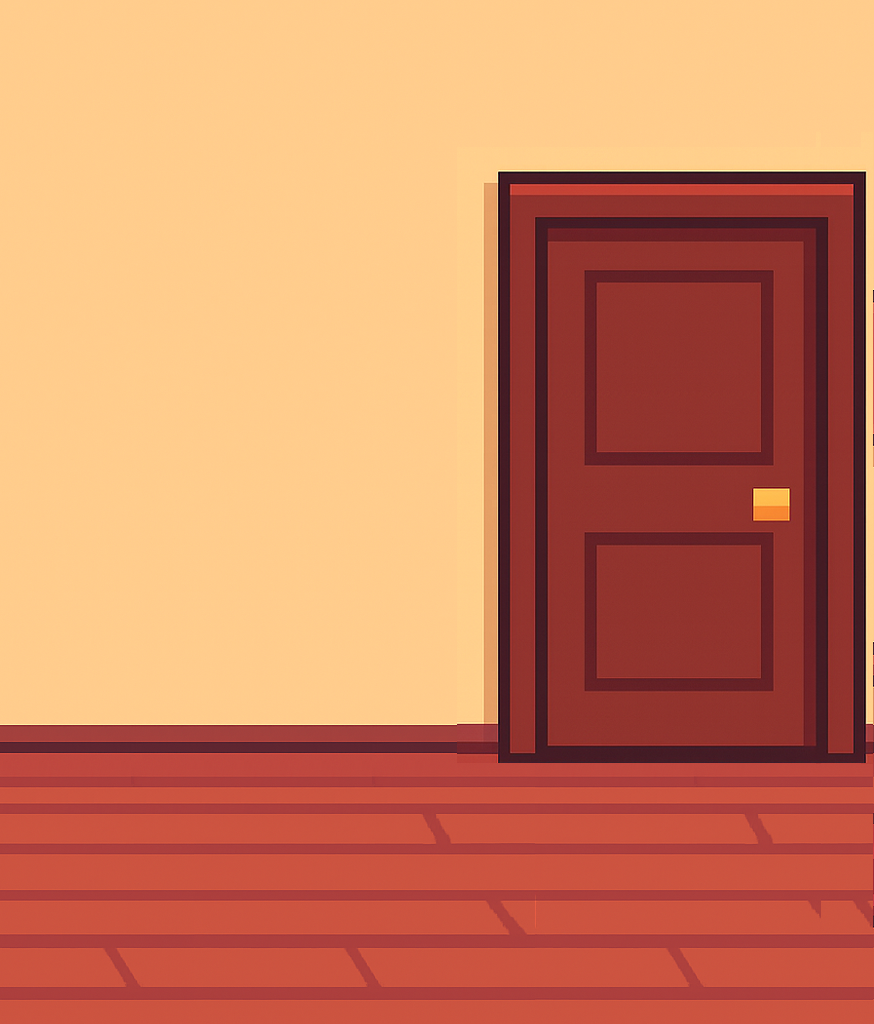
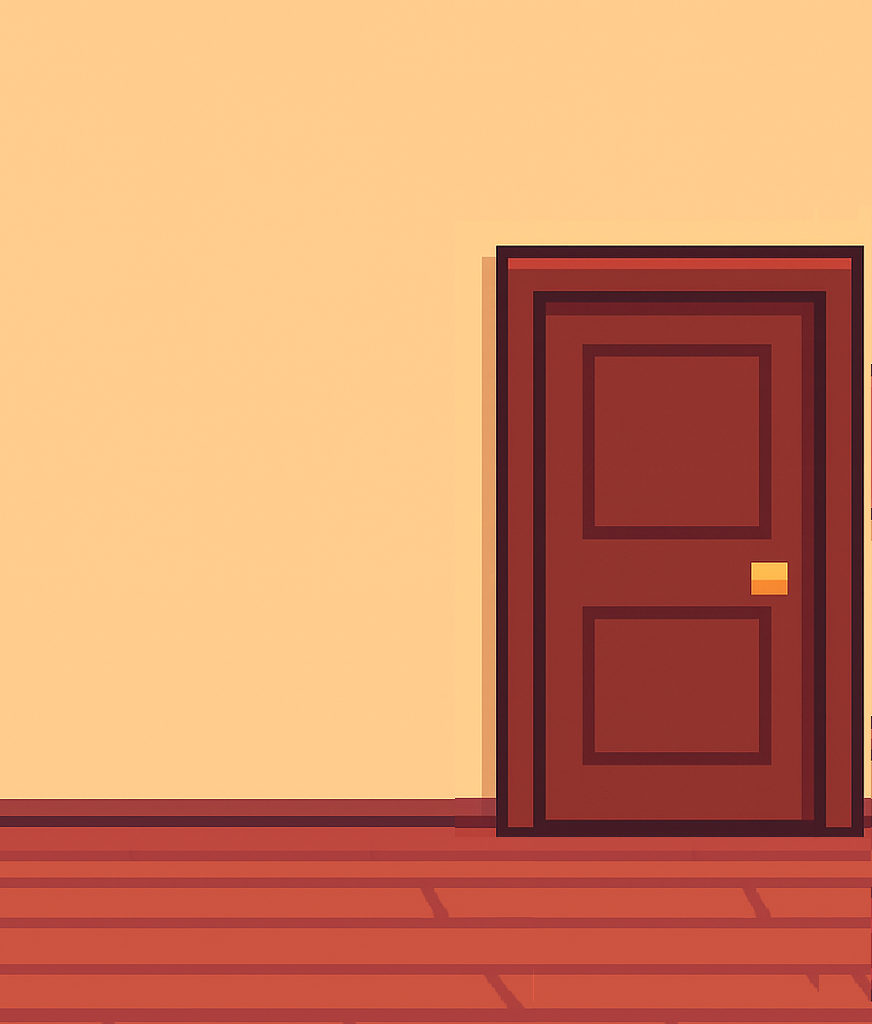
Ajustando escala do personagem

diff --git a/src/core/GameScene.js b/src/core/GameScene.js
@@ -55,18 +55,18 @@ export default class GameScene extends Phaser.Scene {
     this.homeBg1 = this.add
       .image(width / 2, height / 2, "home_bg")
       .setDepth(-2)
-      .setScale(0.5);
+      .setScale(0.48);
 
     this.homeBg2 = this.add
       .image(width / 2 + 600, height / 2, "home_bg_2")
       .setDepth(-2)
-      .setScale(0.5);
+      .setScale(0.48);
 
     // PC
     new InteractiveObject(this, {
       key: 'pc',
-      x: width - 260,
-      y: height - 190,
+      x: width - 305,
+      y: height - 100,
       texture: 'pc',
       label: "Computador",
       dialogs: [
@@ -87,7 +87,7 @@ export default class GameScene extends Phaser.Scene {
     this.physics.add.collider(this.pc, this.ground.ground);
 
     // Player
-    this.player = setupPlayer(this, 60, height - 300);
+    this.player = setupPlayer(this, 60, height - 105);
 
     // Estado global do jogador
     this.playerState = createPlayerState();

diff --git a/src/engine/player/playerController.js b/src/engine/player/playerController.js
@@ -2,7 +2,7 @@ export function setupPlayer(scene, x, y) {
   const player = scene.physics.add.sprite(x, y, 'player', 0);
   player.setCollideWorldBounds(true);
   player.setBounce(0);
-  player.setScale(0.6);
+  player.setScale(0.45);
   scene.physics.add.collider(player, scene.ground.ground);
 
   // animações
